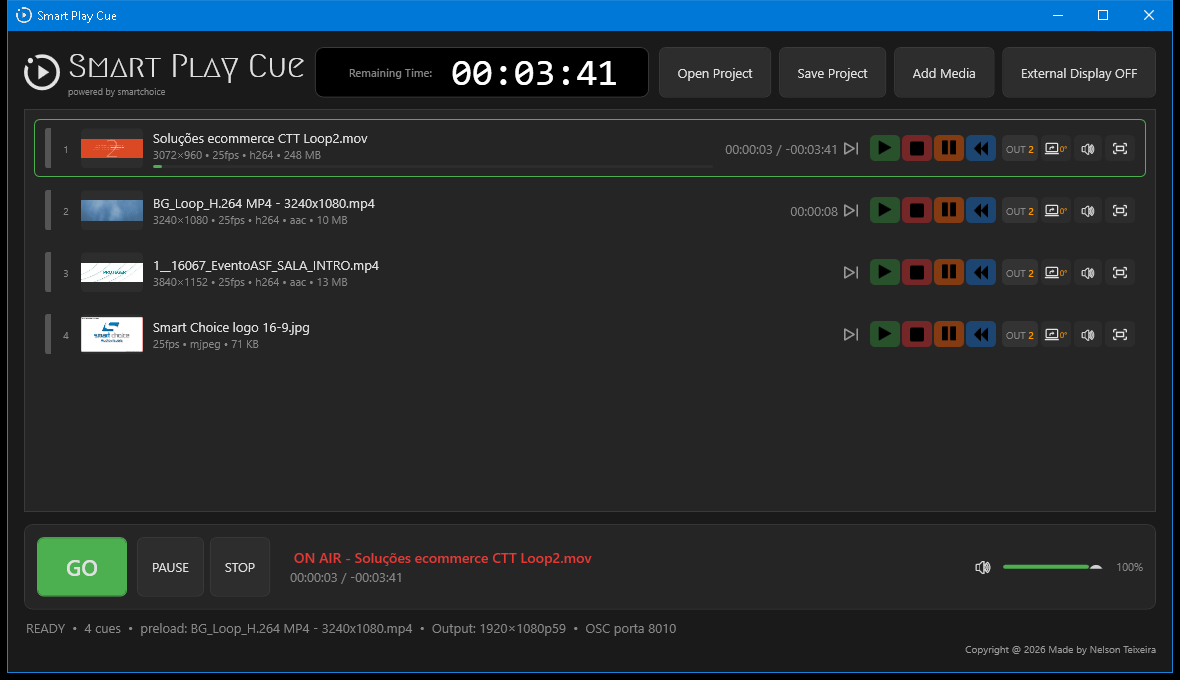
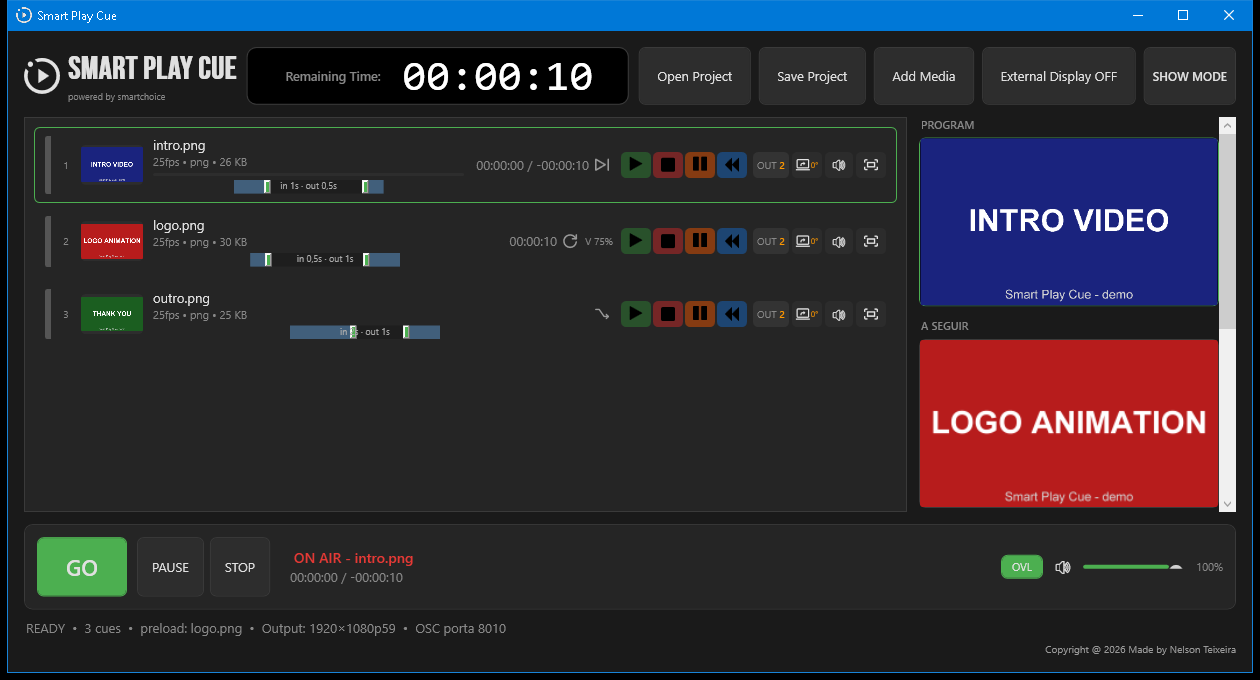
Version 2.5.1: licenca proprietaria + screenshots atualizados
- Licenca: Copyright (C) 2026 Nelson Teixeira, SmartChoice — All Rights Reserved
  (LICENSE reescrita; NOTICE.md atualizado: Rug.Osc removido, titulo Smart Play Cue;
  modulo Companion 'UNLICENSED'; footer da app alinhado)
- Screenshots reais da app 2.5.1 em producao: main-window (media carregada),
  main-window-playing (cue no ar com preview PROGRAM), main-window-settings
  (presets de output/refresh); removido output-window.png (escusado)
- Docs: README (screenshots + licenca), DOCUMENTATION (versao 2.5.1)

diff --git a/src/StagePlayout.App/MainWindow.xaml b/src/StagePlayout.App/MainWindow.xaml
@@ -598,6 +598,6 @@
         <!-- ===== Footer ===== -->
         <TextBlock Grid.Row="4" HorizontalAlignment="Right" Margin="0,6,0,0"
                    FontSize="10" Foreground="#999999"
-                   Text="Copyright @ 2026 Made by Nelson Teixeira"/>
+                   Text="Copyright © 2026 Nelson Teixeira · SmartChoice — All Rights Reserved"/>
     </Grid>
 </Window>

diff --git a/README.md b/README.md
@@ -8,7 +8,7 @@ Bitfocus Companion / Stream Deck (OSC).
 
 Windows native (.exe — no .NET required). Developed by SmartChoice.
 
-![Status](https://img.shields.io/badge/version-2.5.0-green)
+![Status](https://img.shields.io/badge/version-2.5.1-green)
 
 ---
 
@@ -22,9 +22,9 @@ Windows native (.exe — no .NET required). Developed by SmartChoice.
 
 ![Smart Play Cue - Playing](screenshots/main-window-playing.png)
 
-### Output / Program display
+### Settings (output display + refresh presets)
 
-![Smart Play Cue - Output](screenshots/output-window.png)
+![Smart Play Cue - Settings](screenshots/main-window-settings.png)
 
 ---
 
@@ -38,7 +38,7 @@ Windows native (.exe — no .NET required). Developed by SmartChoice.
 
 ## Quick start
 
-1. Download `SmartPlayCue-v2.5.0-win64.zip` (portátil) ou `SmartPlayCue-Setup-2.5.0.exe` (instalador) from [Releases](../../releases)
+1. Download `SmartPlayCue-v2.5.1-win64.zip` (portátil) ou `SmartPlayCue-Setup-2.5.1.exe` (instalador) from [Releases](../../releases)
 2. Install and run — no dependencies (self-contained .NET)
 3. Drag videos into the list, double-click a cue or press **Space = GO**
 4. The output opens fullscreen on your second display / projector
@@ -82,7 +82,7 @@ Windows native (.exe — no .NET required). Developed by SmartChoice.
 - OSC feedback port: **8011** (remaining time: `/smartcue/time/hh|mm|ss`)
 - Feedback target is configurable in **`companion.json`** (created next to the exe on
   first run) — set `FeedbackHost` to the IP of the machine running Companion
-- Module: `companion-module-smartplaycue/` (`smartplaycue-2.5.0.tgz`)
+- Module: `companion-module-smartplaycue/` (`smartplaycue-2.5.1.tgz`)
 
 ## Tests
 
@@ -100,4 +100,9 @@ dotnet publish -c Release -r win-x64 --self-contained true \
 
 ## License
 
-MIT © SmartChoice — see [LICENSE](LICENSE) and [NOTICE.md](NOTICE.md).
+**Copyright © 2026 Nelson Teixeira, SmartChoice. All Rights Reserved.**
+
+Proprietary software — desenvolvido por Nelson Teixeira (SmartChoice).
+Nenhuma parte pode ser copiada, modificada, distribuída ou usada sem
+autorização prévia por escrito. Ver [LICENSE](LICENSE).
+Componentes de terceiros: [NOTICE.md](NOTICE.md).

diff --git a/NOTICE.md b/NOTICE.md
@@ -1,6 +1,6 @@
 # Third-Party Notices
 
-StagePixPlay uses the following open-source components:
+Smart Play Cue uses the following open-source components:
 
 | Component | License | Usage |
 |---|---|---|
@@ -8,11 +8,12 @@ StagePixPlay uses the following open-source components:
 | [Flyleaf.FFmpeg.Bindings](https://github.com/SuRGeoNix/Flyleaf.FFmpeg.Generator) | LGPL v3 | .NET bindings for FFmpeg |
 | [NAudio](https://github.com/naudio/NAudio) | MIT | Audio output (WASAPI) |
 | [Vortice.Windows](https://github.com/amerkoleci/Vortice.Windows) | MIT | Direct3D11 / DXGI bindings |
-| [Rug.Osc](https://bitbucket.org/rugcode/rug-osc) | MIT-style | OSC protocol (Companion/Stream Deck) |
 | [SharpVectors](https://github.com/ELC/SharpVectors) | BSD-3-Clause | SVG rendering (logo) |
+| [xUnit](https://xunit.net/) | Apache 2.0 | Unit tests (dev only) |
 
 FFmpeg is used as dynamically linked, unmodified separate libraries
 (`thirdparty/FFmpeg/*.dll`). Source and build details are available via the
-links above, complying with LGPL dynamic-linking terms.
+links above.
 
-StagePixPlay itself is licensed under the MIT License (see `LICENSE`).
+Smart Play Cue itself is **proprietary** — see [LICENSE](LICENSE).
+Copyright © 2026 Nelson Teixeira, SmartChoice. All Rights Reserved.

diff --git a/docs/DOCUMENTATION.md b/docs/DOCUMENTATION.md
@@ -1,7 +1,7 @@
 # Smart Play Cue — Documentação Completa
 
 **Software de playout de vídeo para eventos ao vivo** — minimalista, dark mode azul escuro, nativo Windows.
-Desenvolvido por SmartChoice. Versão 2.5.0.
+Desenvolvido por SmartChoice. Versão 2.5.1.
 
 ---
 
